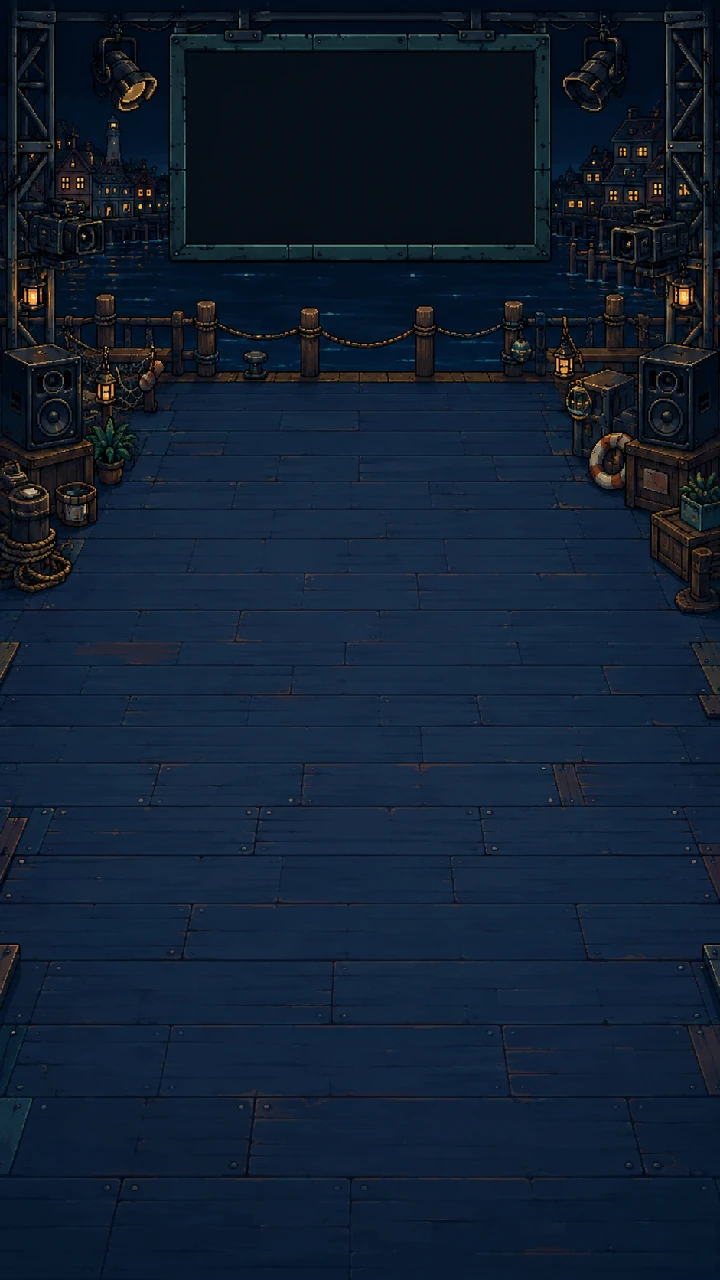
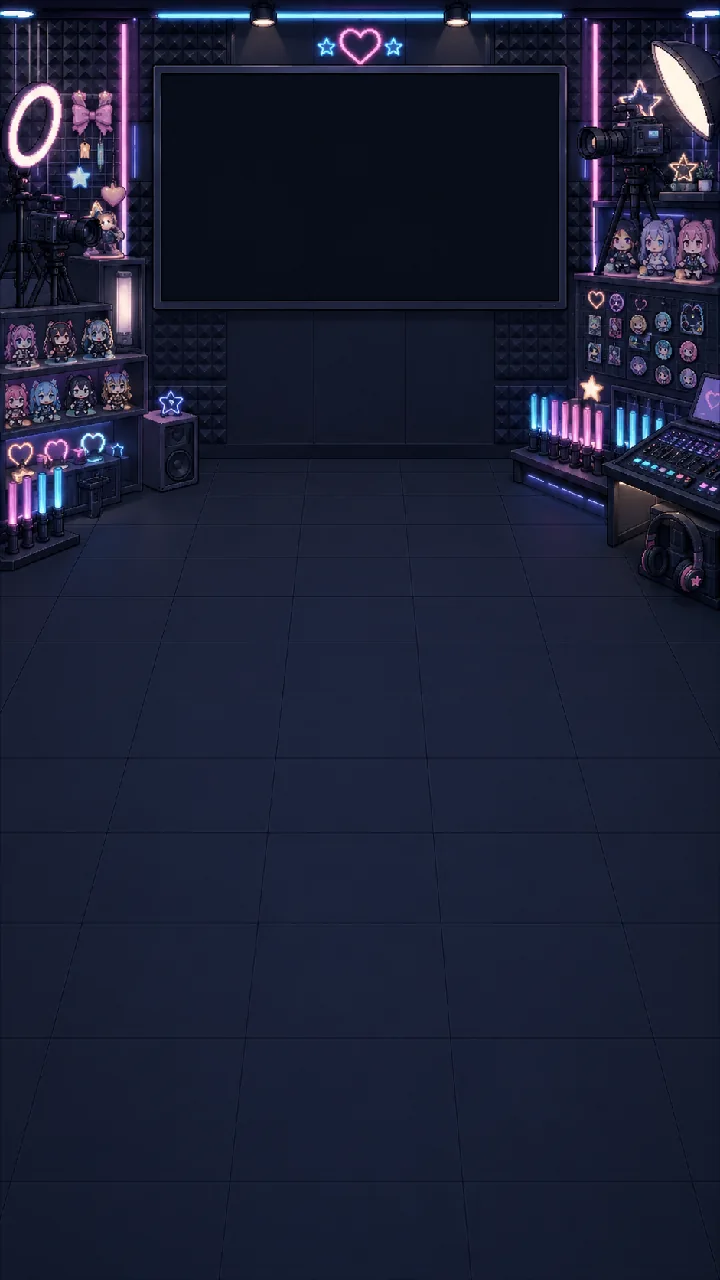
fix(demo): replace harbor stage with virtual-idol studio

diff --git a/apps/miniapp/src/features/shooter/reversal-renderer.ts b/apps/miniapp/src/features/shooter/reversal-renderer.ts
@@ -92,31 +92,21 @@ export const reversalPlayerFrame = (tick: number, dx: number, hit: boolean): num
 const backdrop = (ctx: CanvasRenderingContext2D, image: HTMLImageElement | undefined, tick: number, breaks: number): void => {
   ctx.fillStyle = "#102532"; ctx.fillRect(0, 0, 360, 640);
   if (image) ctx.drawImage(image, 0, 0, 360, 640);
-  // The dormant screen and side lamps come back to life after real player breaks.
-  ctx.fillStyle = breaks ? "#132f37" : "#10222a";
-  ctx.fillRect(90, 27, 179, 83);
+  // Keep the broadcast visualization inside the studio screen's pixel bezel.
+  ctx.fillStyle = breaks ? "#10202d" : "#0a111c";
+  ctx.fillRect(81, 38, 198, 112);
   const bars = Math.min(12, 2 + breaks * 2);
   for (let n = 0; n < bars; n += 1) {
     const height = breaks ? 8 + ((n * 7 + Math.floor(tick / 7)) % 26) : 2;
-    ctx.fillStyle = n % 3 ? "#407d78" : "#d5a66c";
-    ctx.fillRect(109 + n * 12, 80 - height, 7, height);
+    ctx.fillStyle = n % 3 ? "#428b9a" : "#a36b9e";
+    ctx.fillRect(99 + n * 14, 115 - height, 8, height);
   }
   for (let side = 0; side < 2; side += 1) {
-    const x = side ? 324 : 35;
+    const x = side ? 277 : 63;
     for (let n = 0; n < 3; n += 1) {
-      ctx.fillStyle = breaks > n ? gold : "#28424d";
-      ctx.fillRect(x - 4, 22 + n * 9, 8, 3);
+      ctx.fillStyle = breaks > n ? (side ? "#d591ce" : teal) : "#28424d";
+      ctx.fillRect(x - 1, 12 + n * 7, 2, 5);
     }
-    if (breaks > side) {
-      ctx.fillStyle = "rgba(255,198,107,.045)";
-      ctx.beginPath(); ctx.moveTo(x, 34); ctx.lineTo(x - 22, 640); ctx.lineTo(x + 24, 640); ctx.fill();
-    }
-  }
-  // A quiet pixel reflection gives the sea motion without moving the combat plane.
-  ctx.fillStyle = "rgba(119,226,211,.2)";
-  for (let n = 0; n < 8; n += 1) {
-    const x = 58 + (n * 37 + Math.floor(tick / 12)) % 245;
-    ctx.fillRect(x, 137 + (n % 3) * 9, 8 + (n % 4) * 3, 1);
   }
 };
 

diff --git a/docs/reversal-preview.md b/docs/reversal-preview.md
@@ -26,14 +26,20 @@ These four assets were created for this Preview with the built-in image-generati
 
 | File | Intended content | Processing |
 | --- | --- | --- |
-| `stage.webp` | Night-sea livestream stage, side equipment, and a quiet central arena | Pixel-aligned resizing and local WebP compression |
+| `stage.webp` | Modern virtual-idol livestream studio, fan merchandise, cameras, and a quiet central arena | Nearest-neighbor 720 x 1280 export and local WebP compression |
 | `nana-sheet.webp` | Referenced Nana design with idle, movement, shooting, and hurt poses | Transparent-background atlas, nearest-neighbor resizing, local WebP compression |
 | `equipment-sheet.webp` | Controllers, escorts, open cores, charge and destruction frames | Transparent-background atlas, nearest-neighbor resizing, local WebP compression |
 | `boss-sheet.webp` | Auto-Nana and attack, exposed, hurt and breakdown frames | Transparent-background atlas, nearest-neighbor resizing, local WebP compression |
 
 Sprite atlases use actual alpha transparency, not a checkerboard painted into the image. All four runtime assets are local static files; the game makes no image-generation request or external asset-service call. Generated provenance is not a claim that fan-character likeness rights have transferred. The repository's non-commercial fan-work notice still applies. Native-size and nearest-neighbor 2x visual review belongs in the Preview verification record.
 
-The generation brief requested a night-sea broadcast stage with a quiet central combat plane, edge-mounted speakers/cameras/trusses, and a navy/teal/brass pixel palette. The referenced Nana atlas uses a four-column grid of idle, left/right movement, firing and hurt poses. The equipment atlas uses controller, camera escort and cutting-device rows, each with closed, open, hit and broken frames. The Boss atlas uses calm and glitch rows with the same four action states. No lettering was baked into the artwork. Corrective alpha-background passes removed painted checkerboards before local nearest-neighbor WebP export.
+The stage was revised on 2026-09-07 using the built-in image tool in edit mode, with the previous stage as a composition reference. The waterfront, timber, ropes, barrels, and sea-reflection animation were replaced with a modern virtual-idol studio. Acrylic standees, pin badges, penlights, cameras, and ring lights establish the fan-stream setting; the center stays calm and dark for combat. The screen visualization fits the new bezel, and successful reversals light its cyan/pink indicators without floor-wide light cones.
+
+The final stage edit prompt was:
+
+> Use case: precise-object-edit. Asset type: production pixel-art background for a portrait 360x640 logical-coordinate one-finger shooter, output 9:16 portrait. Input image 1 is the background to replace. Preserve only the useful game composition: a large rectangular broadcast display centered in the upper quarter, edge-mounted equipment, and an unobstructed low-detail floor covering the central/lower playing area. Completely replace the old harbor/pirate environment with a contemporary Chinese virtual-idol livestream studio / fan-event performance room. This should immediately evoke VTuber fan culture: small chibi acrylic standee collections and pin badges on shelves at the extreme side edges, neatly arranged cyan/pink/gold penlight racks, heart/star stage motifs, modern black cameras and ring lights, broadcast mixing desk glimpsed at the side, acoustic panels and LED strips. No people or enemies standing in the room. Modern navy matte floor tiles (NOT wood planks), clean graphite and cool white equipment, small pastel cyan/pink fan decorations, warm highlights only as tiny accents. The atmosphere is a charming late-night variety livestream interrupted by a sci-fi glitch, NOT a military warehouse or generic cyberpunk corridor. Clean hand-placed-looking 16-bit pixel art, crisp stepped outlines and limited palette matching the existing character sprites; no painterly fog or volumetric haze. For alignment with game animation: leave an unlit nearly black rectangular screen interior spanning approximately x25%-75%, y4%-17% of the entire image; a modern thin screen bezel immediately around it. Concentrate props and detail outside the middle 72% of the image, especially near the upper edges. Keep the bottom 70% calm and dark enough to distinguish red/purple bullets and cyan/gold friendly pickups. No bright objects or floor markings in the center, no huge circular platform. No text, lettering, logos, watermark, UI, health bars, player characters, ocean, water, boats, ropes, anchors, docks, barrels, lanterns, brass rivets, medieval/pirate/steampunk decoration. Change the entire theme, not simply add a few screens to the old harbor.
+
+The unchanged Nana atlas uses a four-column grid of idle, left/right movement, firing and hurt poses. The equipment atlas uses controller, camera escort and cutting-device rows, each with closed, open, hit and broken frames. The Boss atlas uses calm and glitch rows with the same four action states. No lettering was baked into the artwork. Corrective alpha-background passes removed painted checkerboards before local nearest-neighbor WebP export.
 
 Regenerate both immutable manifests and API types when their source contracts change:
 
@@ -62,6 +68,14 @@ npm run check:english-source
 - A local Chrome Boss sample measured 180 animation frames with median/p95 intervals of approximately 16.7 ms while its timer advanced from 44 to 41 seconds. This desktop result does not certify low-end phones or peak-entity performance.
 - TypeScript, ESLint and the production Webpack build passed. Local Turbopack workers were blocked by the host's socket permission policy; the unchanged default Turbopack build is also checked in remote CI/Preview.
 - No production deployment, migration, player reset or live API write was performed. Human testing below remains pending.
+
+### Studio background verification (2026-09-07)
+
+- Replaced only the reversal stage, its background animation, and this provenance record. Campaign assets and all simulation, input, and API logic are unchanged.
+- Reviewed the 360 x 640 logical background at 1x and nearest-neighbor 2x, then the running demo at 320 x 568 and 1280 x 900. The display animation stays inside its bezel, and the HUD remains outside the combat plane. Chrome reported no browser errors.
+- TypeScript, ESLint, all 96 unit tests, all 22 Chrome browser regressions, English-source, asset, and diff checks passed. Campaign browser tests still use mocked API responses.
+- The replacement WebP is 52,106 bytes at 720 x 1280, down from 102,488 bytes. No new asset dependency or runtime service was added.
+- These checks do not replace the human playtest gate below.
 
 ## Human playtest gate: pending
 
